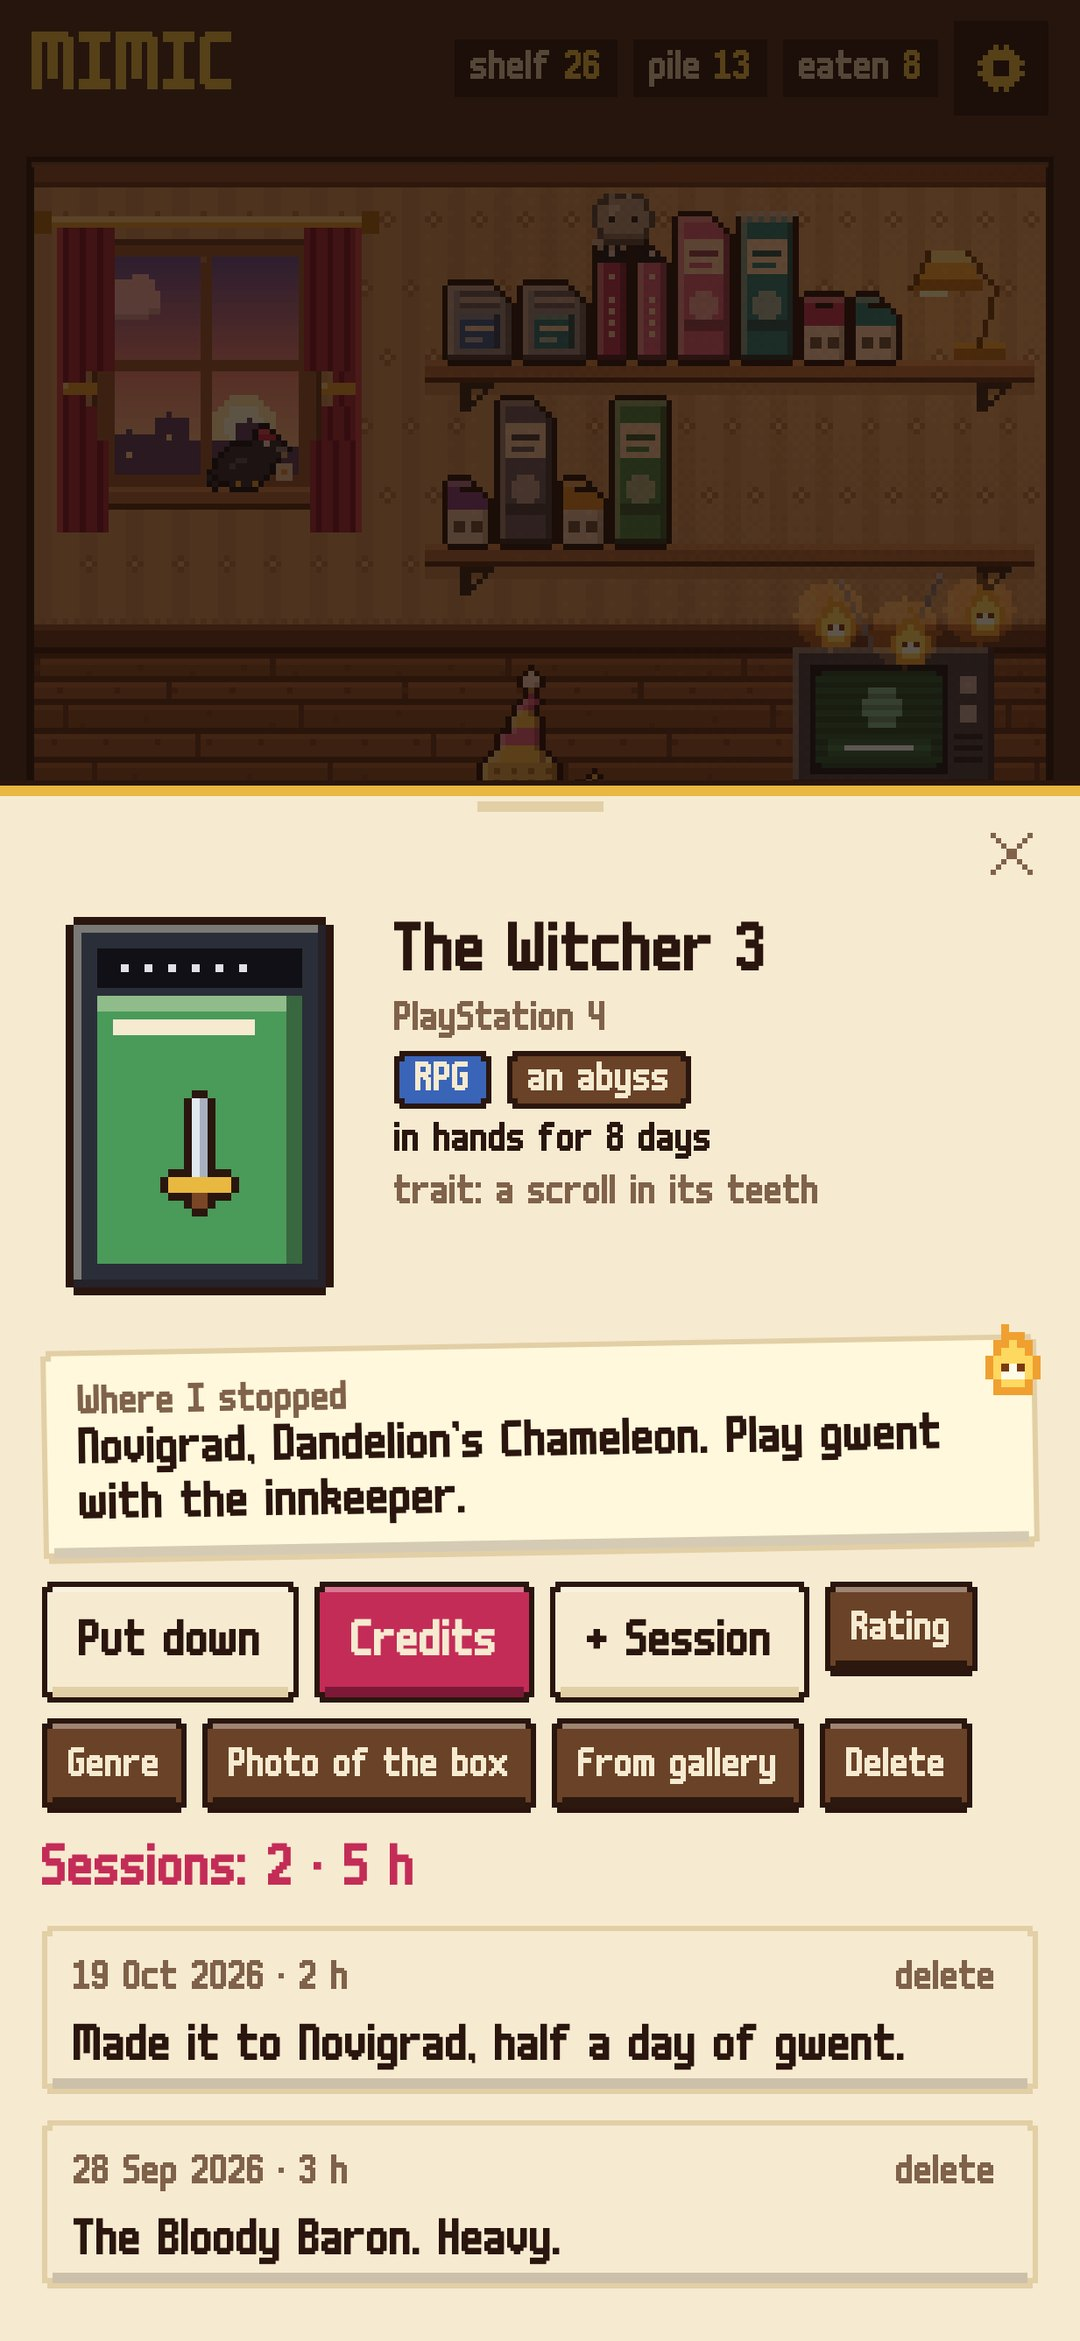
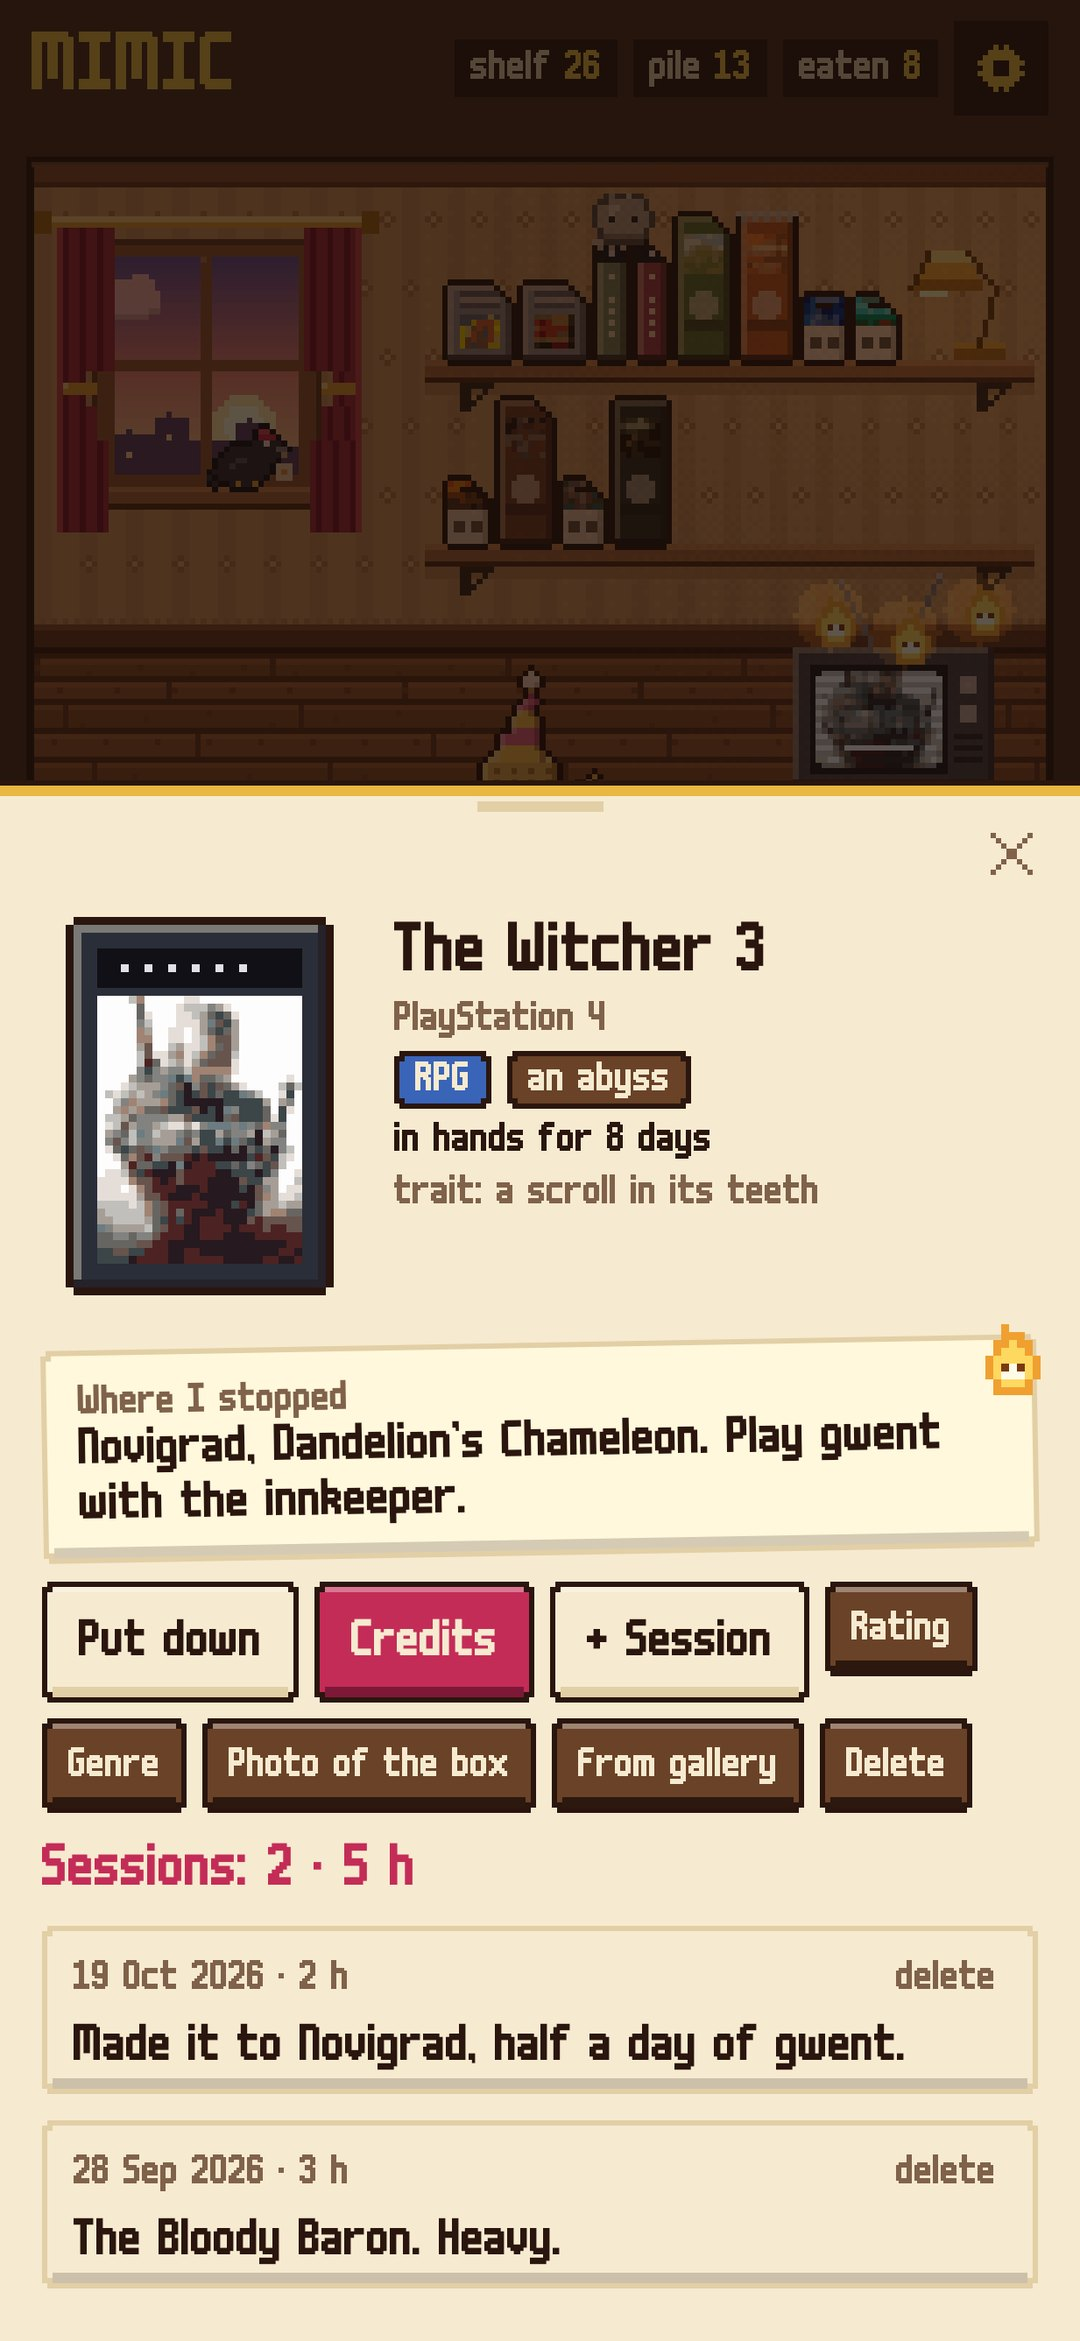
Screenshots with the demo games' real covers
tools/demo_covers.py downloads them from Wikipedia into app/build (not committed);
RenderScreens puts them on the demo games.

diff --git a/app/src/test/java/app/mimic/RenderScreens.kt b/app/src/test/java/app/mimic/RenderScreens.kt
@@ -5,6 +5,7 @@ import androidx.compose.runtime.Composable
 import androidx.compose.ui.test.junit4.createAndroidComposeRule
 import androidx.test.core.app.ApplicationProvider
 import androidx.compose.ui.test.onAllNodesWithText
+import app.mimic.data.Covers
 import app.mimic.data.DemoSeed
 import app.mimic.domain.Phase
 import app.mimic.domain.Sky
@@ -43,7 +44,21 @@ abstract class ScreensBase {
     private fun seed(): Pair<app.mimic.data.Settings, Map<String, Long>> = runBlocking {
         val app = ApplicationProvider.getApplicationContext<MimicApp>()
         DemoSeed.seedIfEmpty(app, app.container)
+        realCovers(app)
         app.container.settings.now() to app.container.db.games().list().associate { it.title to it.id }
+    }
+
+    /** The demo games' real covers from tools/demo_covers.py, when they've been downloaded. */
+    private suspend fun realCovers(app: MimicApp) {
+        val dir = File(System.getProperty("user.dir"), "build/demo-covers").takeIf { it.isDirectory } ?: return
+        val dao = app.container.db.games()
+        for (g in dao.list()) {
+            if (g.cover != null) continue
+            val en = RU_EN[g.title] ?: g.title
+            val f = File(dir, en.replace(Regex("[^A-Za-z0-9]+"), "_").trim('_') + ".jpg").takeIf { it.exists() } ?: continue
+            val name = Covers.save(app, f.readBytes()) ?: continue
+            dao.update(g.copy(cover = name, color = Covers.art(app, name)?.dominant ?: g.color))
+        }
     }
 
     private fun shot(name: String, content: @Composable () -> Unit) {
@@ -79,6 +94,12 @@ abstract class ScreensBase {
     @Test fun sniff() = screen("6-sniff", Tab.ROOM) { Overlay.Sniff }
     @Test fun dig() = screen("7-dig", Tab.ROOM) { Overlay.Dig(null) }
 }
+
+private val RU_EN = mapOf(
+    "Ведьмак 3" to "The Witcher 3", "Каркассон" to "Carcassonne", "Терраформирование Марса" to "Terraforming Mars", "Диксит" to "Dixit",
+    "Кодовые имена" to "Codenames", "Ужас Аркхэма" to "Arkham Horror", "Взрывные котята" to "Exploding Kittens", "Крылья" to "Wingspan",
+    "Каскадия" to "Cascadia", "Остров кошек" to "Isle of Cats",
+)
 
 @Config(sdk = [34], qualifiers = "en-w411dp-h891dp-xxhdpi")
 class RenderScreensEn : ScreensBase() { override val lang = "en" }

diff --git a/tools/demo_covers.py b/tools/demo_covers.py
@@ -1,0 +1,76 @@
+"""Downloads the demo games' real covers from Wikipedia for the screenshot renders.
+
+python tools/demo_covers.py
+./gradlew testDebugUnitTest -Prender --tests '*RenderScreens*'
+
+The pictures go to app/build/demo-covers/<title>.jpg (not committed: they belong to their publishers).
+RenderScreens puts them on the demo games when the folder is there.
+"""
+import json
+import re
+import urllib.parse
+import urllib.request
+from pathlib import Path
+
+ROOT = Path(__file__).resolve().parent.parent
+OUT = ROOT / "app/build/demo-covers"
+UA = {"User-Agent": "Mimic/1.0 (https://github.com/bigdevwhale/mimic) demo covers"}
+
+# English demo title -> its English Wikipedia article.
+ARTICLES = {
+    "Super Mario Bros. 3": "Super Mario Bros. 3",
+    "Zelda: A Link to the Past": "The Legend of Zelda: A Link to the Past",
+    "Silent Hill 2": "Silent Hill 2",
+    "Resident Evil 4": "Resident Evil 4",
+    "Carcassonne": "Carcassonne (board game)",
+    "Terraforming Mars": "Terraforming Mars (board game)",
+    "Dixit": "Dixit (board game)",
+    "Hollow Knight": "Hollow Knight",
+    "Stardew Valley": "Stardew Valley",
+    "Slay the Spire": "Slay the Spire",
+    "Codenames": "Codenames (board game)",
+    "Celeste": "Celeste (video game)",
+    "Arkham Horror": "Arkham Horror",
+    "The Witcher 3": "The Witcher 3: Wild Hunt",
+    "Hades": "Hades (video game)",
+    "Disco Elysium": "Disco Elysium",
+    "Divinity: Original Sin 2": "Divinity: Original Sin II",
+    "Exploding Kittens": "Exploding Kittens",
+    "Into the Breach": "Into the Breach",
+    "Inscryption": "Inscryption",
+    "Story of Seasons": "Story of Seasons: Pioneers of Olive Town",
+    "Alan Wake 2": "Alan Wake 2",
+    "Wingspan": "Wingspan (board game)",
+    "Cascadia": "Cascadia (board game)",
+    "A Short Hike": "A Short Hike",
+    "Outer Wilds": "Outer Wilds",
+    "Balatro": "Balatro (video game)",
+    "Isle of Cats": "The Isle of Cats",
+}
+
+
+def get(url):
+    with urllib.request.urlopen(urllib.request.Request(url, headers=UA), timeout=20) as r:
+        return r.read()
+
+
+def main():
+    OUT.mkdir(parents=True, exist_ok=True)
+    for title, article in ARTICLES.items():
+        name = re.sub(r"[^A-Za-z0-9]+", "_", title).strip("_") + ".jpg"
+        if (OUT / name).exists():
+            continue
+        try:
+            s = json.loads(get("https://en.wikipedia.org/api/rest_v1/page/summary/" + urllib.parse.quote(article.replace(" ", "_"))))
+            src = (s.get("originalimage") or s.get("thumbnail") or {}).get("source")
+            if not src:
+                print("no picture:", title)
+                continue
+            (OUT / name).write_bytes(get(src))
+            print("ok", title)
+        except Exception as e:
+            print("failed:", title, e)
+
+
+if __name__ == "__main__":
+    main()
